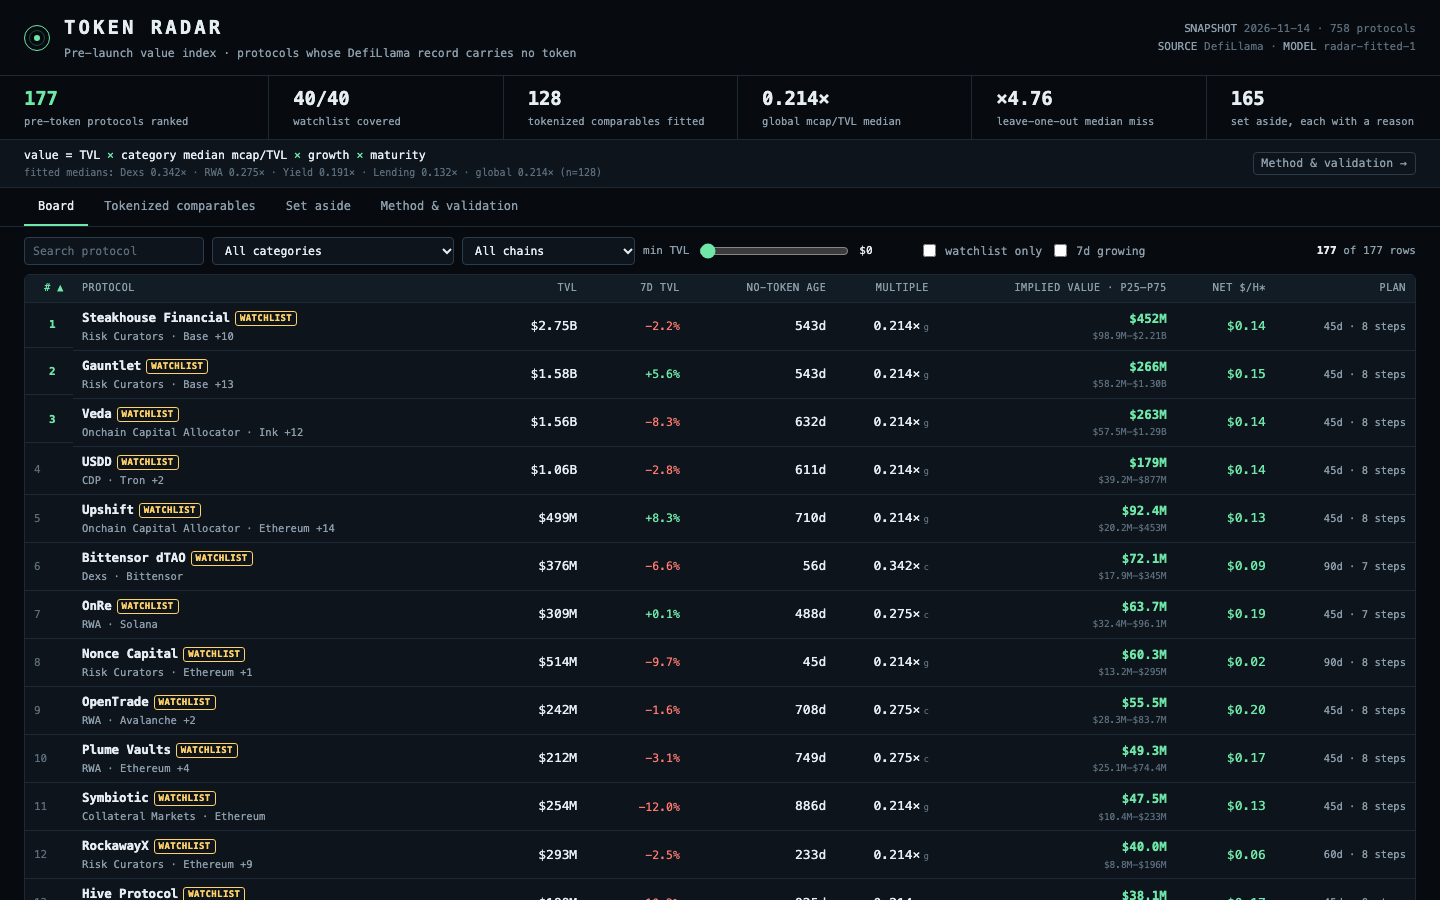
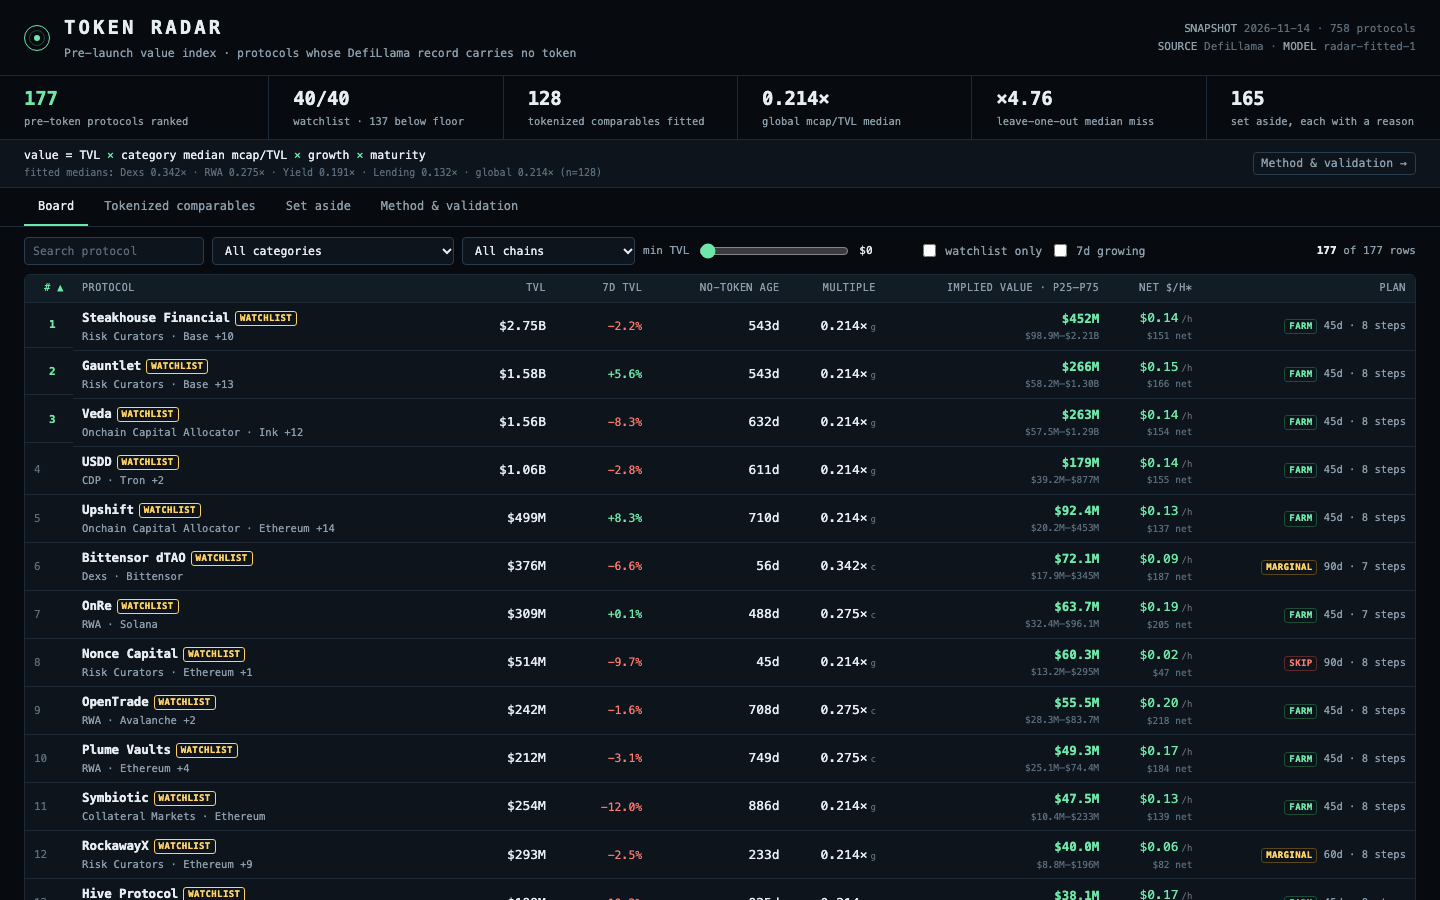
Polish the board verdicts, net line and KPI labels

diff --git a/dashboard/app.js b/dashboard/app.js
@@ -15,6 +15,7 @@ const x2 = (m) => `×${m.toFixed(2)}`;
 const age = (r) => `${r.age_days}d${r.age_assumed ? '<span class="badge assume">assumed</span>' : ''}`;
 const cmpStr = (a, b) => (a < b ? -1 : a > b ? 1 : 0);
 const one = (n) => `$${n.toFixed(2)}`;
+const verdict = (r) => r.net_per_hour_usd >= 0.10 ? ['FARM', 'farm'] : r.net_per_hour_usd >= 0.04 ? ['MARGINAL', 'marg'] : ['SKIP', 'skip'];
 
 const view = $('#view');
 if (!R) {
@@ -26,7 +27,7 @@ $('#stamp').innerHTML = `<b>SNAPSHOT</b> ${esc(R.as_of)} &middot; ${R.counts.pro
 const topCats = [...R.categories].sort((a, b) => b.rows - a.rows || cmpStr(a.name, b.name)).slice(0, 4);
 $('#kpis').innerHTML = [
   [R.counts.ranked, 'pre-token protocols ranked'],
-  [`${R.counts.watchlist_ranked}/${R.counts.watchlist}`, 'watchlist covered'],
+  [`${R.counts.watchlist_ranked}/${R.counts.watchlist}`, `watchlist · ${R.counts.below_floor_ranked} below floor`],
   [R.counts.tokenized, 'tokenized comparables fitted'],
   [x(R.global.median), 'global mcap/TVL median'],
   [x2(R.validation.median_miss_factor), 'leave-one-out median miss'],
@@ -81,7 +82,7 @@ function renderBoard() {
     <span class="count" id="count"></span>
   </div>
   <div class="wrap"><table><thead><tr>${COLS.map(([k, l, c]) => `<th data-k="${k}" class="${c}" aria-sort="none">${l}</th>`).join('')}</tr></thead><tbody id="rows"></tbody></table></div>
-  <p class="note">* Net $/h = (implied value × $1,000 ÷ TVL − plan gas) ÷ hours held: a comparison across plans, not a payout. <b>c</b> marks a category-median multiple, <b>g</b> the global median. <b>assumed</b> means listed_at is null and the model uses ${MODEL.age_assumed_days} days. Click a row for its inputs, interval and farm plan.</p>`;
+  <p class="note">* Net $/h = (implied value × $1,000 ÷ TVL − plan gas) ÷ hours held; the smaller figure is that net $1,000 before the hold. Verdict: FARM at ≥ $0.10/h, MARGINAL at ≥ $0.04/h, SKIP below — a comparison across plans, not a payout. <b>c</b> marks a category-median multiple, <b>g</b> the global median. <b>assumed</b> means listed_at is null and the model uses ${MODEL.age_assumed_days} days. Click a row for its inputs, interval and farm plan.</p>`;
   $('#q').addEventListener('input', (e) => { state.q = e.target.value; fill(); });
   $('#cat').addEventListener('change', (e) => { state.cat = e.target.value; fill(); });
   $('#chain').addEventListener('change', (e) => { state.chain = e.target.value; fill(); });
@@ -119,6 +120,7 @@ function fill() {
   });
   $('#rows').innerHTML = rows.length ? rows.map((r) => {
     const badge = `${r.watchlist ? '<span class="badge wl">WATCHLIST</span>' : '<span class="badge early">BELOW FLOOR</span>'}${r.missing.length ? `<span class="badge assume">${r.missing.length} missing</span>` : ''}`;
+    const [vl, vc] = verdict(r);
     return `<tr tabindex="0" data-slug="${esc(r.slug)}">
       <td class="rank${r.rank <= 3 ? ' top' : ''}">${r.rank}</td>
       <td><span class="name">${esc(r.name)}</span>${badge}<div class="sub">${esc(r.category ?? 'no category recorded')} · ${esc(r.chains[0] ?? 'no chain')}${r.chains.length > 1 ? ` +${r.chains.length - 1}` : ''}</div></td>
@@ -127,8 +129,8 @@ function fill() {
       <td class="num">${age(r)}</td>
       <td class="num">${x(r.multiple)}<span class="src">${r.multiple_source === 'category' ? 'c' : 'g'}</span></td>
       <td class="num"><div class="val">${usd(r.implied_value_usd)}</div><div class="ivl">${usd(r.low_usd)}–${usd(r.high_usd)}</div></td>
-      <td class="num up">${one(r.net_per_hour_usd)}</td>
-      <td class="num plan">${r.hold_days}d · ${r.plan.length} steps</td>
+      <td class="num up">${one(r.net_per_hour_usd)}<span class="src">/h</span><div class="ivl">${full(r.net_1k_usd)} net</div></td>
+      <td class="num plan"><span class="vbadge ${vc}">${vl}</span> ${r.hold_days}d · ${r.plan.length} steps</td>
     </tr>`;
   }).join('') : '<tr><td colspan="9" class="empty">No protocol matches these filters.</td></tr>';
 }

diff --git a/dashboard/model.js b/dashboard/model.js
@@ -1,8 +1,5 @@
-// Token Radar: one sealed DefiLlama snapshot in, one ranked board out.
-//
-// The model is fitted from the snapshot and run by both sides: main.ts imports this
-// module to write board.json and data.js, the page imports it for its constants and
-// labels and renders the rows data.js carries. No protocol name is special-cased.
+// Token Radar model: the sealed snapshot in, the ranked radar out. main.ts imports
+// this module to write board.json and data.js; the page renders that same object.
 //
 //   multiple_i    = median(mcap/TVL of the tokenized protocols in category_i), n >= 5
 //                   else the median over every tokenized protocol
@@ -10,10 +7,10 @@
 //   growth_i      = 1 + clamp(change_7d_i, -60, 120)/100 x 0.35
 //   maturity_i    = 0.55 + min(age_days_i, 1095)/1095 x 0.45
 //   implied_i     = max(1, round(base_i x growth_i x maturity_i))
-//   low_i, high_i = the same with the category's p25 and p75 multiples
+//   low_i, high_i = the same with the fitted multiple's p25 and p75
 //
-// "Tokenized" means a positive market cap and a positive TVL: the market already
-// prices those tokens, so their mcap/TVL is the multiple a launch would inherit.
+// "Tokenized" means a positive market cap and TVL: the market already prices those
+// tokens, so their mcap/TVL is the multiple a launch would inherit.
 
 export const MODEL = {
   version: 'radar-fitted-1',
@@ -344,11 +341,8 @@ function spearman(xs, ys) {
   return dx === 0 || dy === 0 ? 0 : num / Math.sqrt(dx * dy);
 }
 
-/**
- * Leave-one-out validation over the tokenized protocols: refit the multiple without
- * the protocol, predict its market cap from its TVL, and measure the miss. The same
- * test with a single global multiple shows what the category split buys.
- */
+/** Leave-one-out over the tokenized protocols: refit without each one, predict its
+ * market cap from its TVL, and compare. A global-only test shows what the split buys. */
 export function validate(protocols, fits) {
   const live = fits.live;
   const byCategory = new Map();

diff --git a/dashboard/app.css b/dashboard/app.css
@@ -90,6 +90,10 @@ td.rank.top { color: var(--acc); font-weight: 700; }
 .src { color: var(--faint); font-size: 9px; margin-left: 3px; }
 .delta { font-size: 11.5px; }
 .plan { color: var(--muted); font-size: 10.5px; white-space: nowrap; }
+.vbadge { display: inline-block; padding: 0 4px; border-radius: 3px; font-size: 9px; font-weight: 700; letter-spacing: .04em; border: 1px solid var(--line2); color: var(--muted); }
+.vbadge.farm { color: var(--acc); border-color: var(--acc-dim); }
+.vbadge.marg { color: var(--amber); border-color: var(--amber-dim); }
+.vbadge.skip { color: var(--red); border-color: #5a2a2a; }
 .empty { padding: 34px; color: var(--muted); text-align: center; }
 
 .scrim { position: fixed; inset: 0; z-index: 10; background: rgba(3, 6, 9, .72); }
